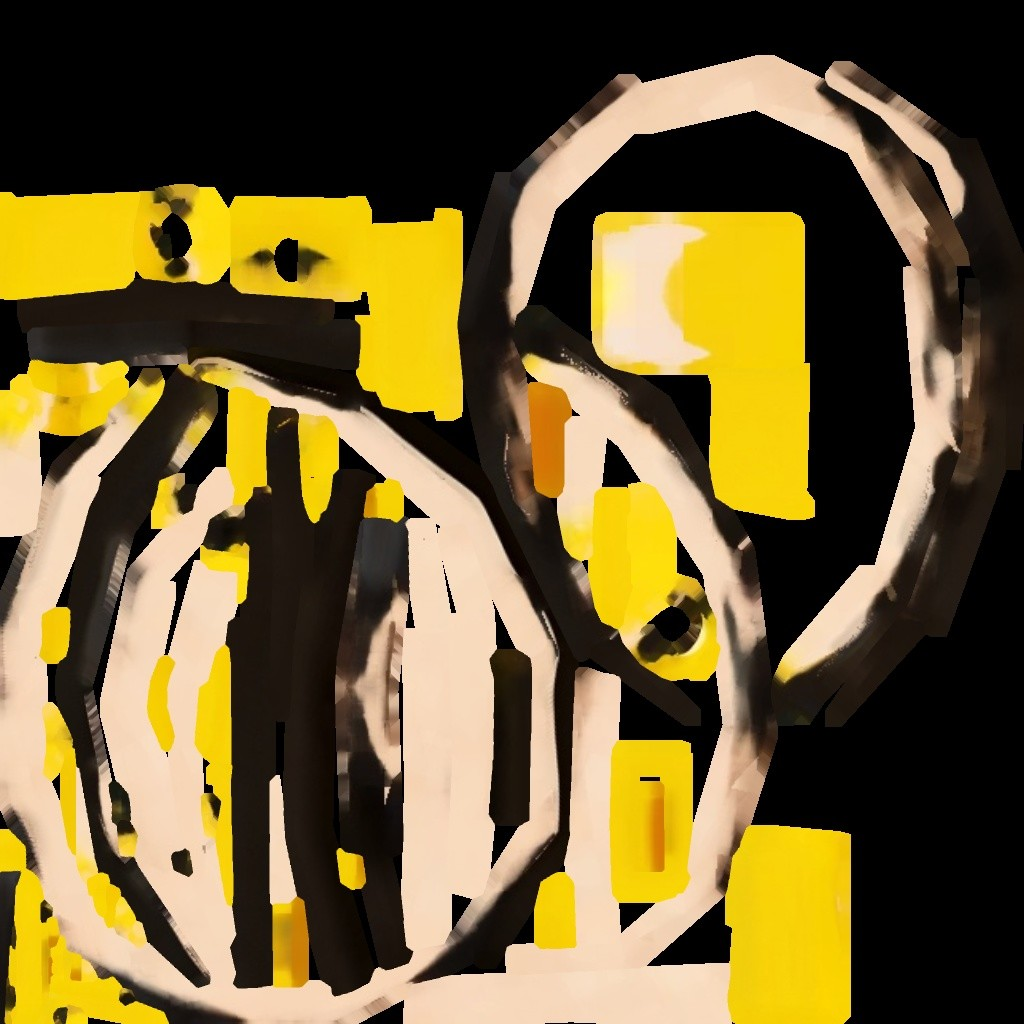
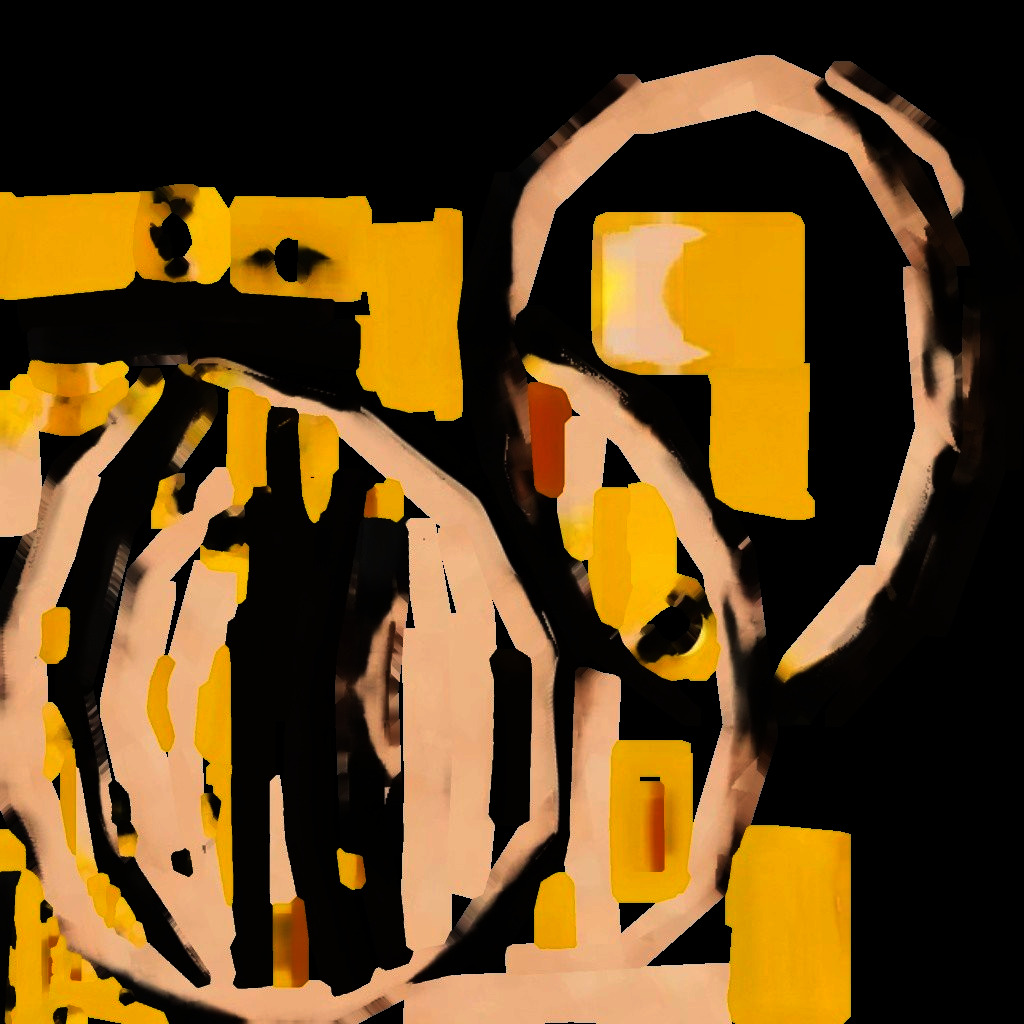
3D coach: correct colour pipeline (linear textures, sRGB output)
The canvas rendered linear with sRGB-encoded textures, which crushed the
midtones and turned the white fur grey-brown. Colour textures are now stored
linear-encoded (converted at build time, so expo-gl needs no sRGB texture
format) and the renderer encodes its output to sRGB. Lights retuned for the
correct pipeline.

Claude-Session: https://claude.ai/code/session_01R156YkoGvLFf1QxZVugBfa

diff --git a/components/pet/Coach3DScene.tsx b/components/pet/Coach3DScene.tsx
@@ -83,8 +83,10 @@ async function loadTexture(mod: number, srgb: boolean, size: number) {
   t.image = { data: { localUri: uri }, width: size, height: size } as any;
   (t as any).isDataTexture = true; // force EXGL's non-DOM upload path
   t.flipY = false; // glTF UV convention
-  // Colours stay as authored: the canvas renders `linear` (no sRGB decode or
-  // encode), which also avoids sRGB internal formats expo-gl may not take.
+  // Colour textures are stored already linear-encoded (converted at build
+  // time), so no sRGB texture format is needed from expo-gl; the renderer
+  // still encodes its output to sRGB, which keeps lighting correct and the
+  // fur white instead of muddy grey.
   t.colorSpace = THREE.NoColorSpace;
   void srgb;
   t.generateMipmaps = true;
@@ -394,7 +396,6 @@ export const Coach3DScene = forwardRef<PetSpriteHandle, Props>(function Coach3DS
       >
         <Canvas
           style={{ flex: 1 }}
-          linear
           flat
           gl={{ alpha: true, antialias: true }}
           camera={{ fov: 30, near: 0.05, far: 20, position: [0, 0.62, 2.55] }}
@@ -410,9 +411,9 @@ export const Coach3DScene = forwardRef<PetSpriteHandle, Props>(function Coach3DS
           }}
           frameloop="never"
         >
-          <hemisphereLight args={[0xffffff, 0xe8d9a8, 1.1]} />
-          <directionalLight position={[-1.5, 2.5, 2.2]} intensity={1.6} />
-          <directionalLight position={[1.8, 1.4, -1.6]} intensity={0.9} />
+          <hemisphereLight args={[0xffffff, 0xf3e6c2, 1.0]} />
+          <directionalLight position={[-1.5, 2.5, 2.2]} intensity={1.2} />
+          <directionalLight position={[1.8, 1.4, -1.6]} intensity={0.5} />
           <Suspense fallback={null}>
             <Coach data={data} pose={pose} animate={animate} ctl={ctl} />
           </Suspense>
